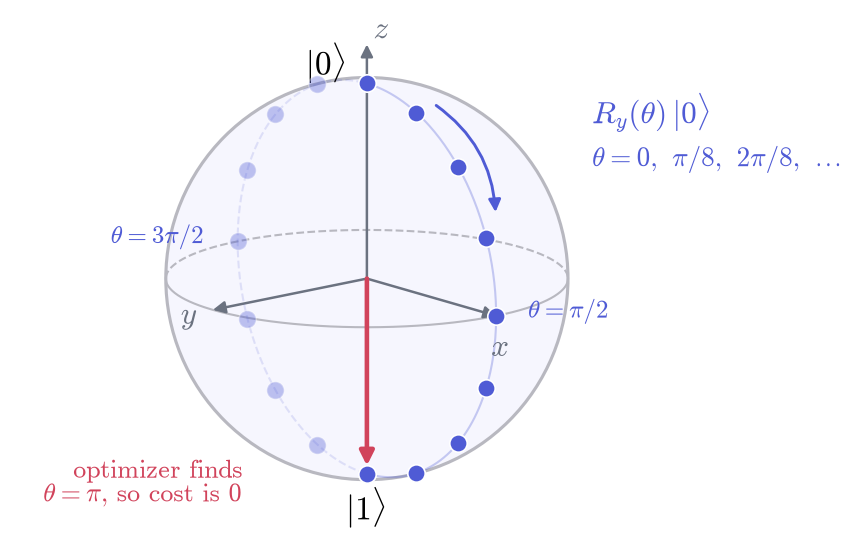
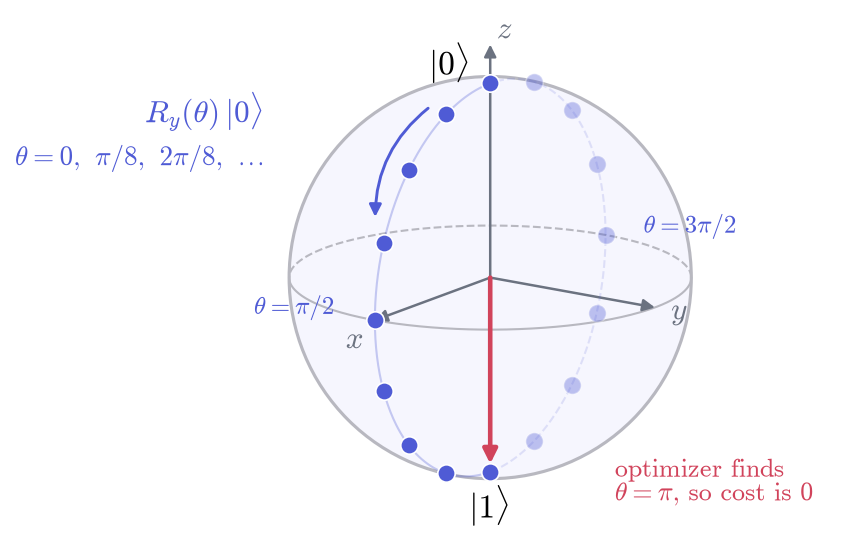
Ry figure: use the right-handed Bloch sphere view (x out of the page, y right, z up)

diff --git a/make_ry_figure.py b/make_ry_figure.py
@@ -5,6 +5,9 @@
 ### Ry(theta)|0> = cos(theta/2)|0> + sin(theta/2)|1>  ->  Bloch vector (sin theta, 0, cos theta),
 ### so Ry walks the qubit around the circle through |0>, +x, |1> and -x.
 ###
+### Axes follow the usual right-handed Bloch sphere drawing: x out of the page (lower left),
+### y to the right, z up, so that x cross y = z.
+###
 ### Run from this folder:   python make_ry_figure.py
 
 import os
@@ -24,12 +27,15 @@ RED = '#d1435b'
 GRAY = '#6b7280'
 LIGHT_GRAY = '#b8b8c0'
 
-# orthographic view from slightly above the equator, x towards the lower right, y towards the lower left
-azimuth, elevation = np.deg2rad(40), np.deg2rad(14)
+# orthographic view from slightly above the equator and a little round from the x axis,
+# so x points out of the page towards the lower left and y to the right
+azimuth, elevation = np.deg2rad(35), np.deg2rad(15)
 toward_viewer = np.array([np.cos(elevation) * np.cos(azimuth), np.cos(elevation) * np.sin(azimuth), np.sin(elevation)])
-screen_right = np.cross(toward_viewer, [0, 0, 1])
+screen_right = np.cross([0, 0, 1], toward_viewer)
 screen_right /= np.linalg.norm(screen_right)
-screen_up = np.cross(screen_right, toward_viewer)
+screen_up = np.cross(toward_viewer, screen_right)
+# (right, up, towards viewer) must be right-handed, otherwise the drawing is a mirror image
+assert np.allclose(np.cross(screen_right, screen_up), toward_viewer)
 
 
 def project(points):
@@ -41,7 +47,7 @@ def project(points):
 fig, ax = plt.subplots(figsize=(6.4, 4.6))
 ax.set_aspect('equal')
 ax.axis('off')
-ax.set_xlim(-1.75, 1.95)
+ax.set_xlim(-1.95, 1.75)
 ax.set_ylim(-1.3, 1.3)
 
 # sphere
@@ -54,7 +60,7 @@ ax.plot(np.where(ed < 0, ex, np.nan), np.where(ed < 0, ey, np.nan), color=LIGHT_
 ax.plot(np.where(ed >= 0, ex, np.nan), np.where(ed >= 0, ey, np.nan), color=LIGHT_GRAY, lw=1, zorder=1)
 
 # axes
-for direction, name, offset in [((1, 0, 0), 'x', (0.02, -0.16)), ((0, 1, 0), 'y', (-0.12, -0.03)), ((0, 0, 1.2), 'z', (0.07, 0.07))]:
+for direction, name, offset in [((1, 0, 0), 'x', (-0.1, -0.1)), ((0, 1, 0), 'y', (0.12, -0.02)), ((0, 0, 1.2), 'z', (0.07, 0.07))]:
 	sx, sy, _ = project(direction)
 	ax.annotate('', xy=(sx, sy), xytext=(0, 0), zorder=2,
 				arrowprops=dict(arrowstyle='-|>', color=GRAY, lw=1.2, mutation_scale=12, shrinkA=0, shrinkB=0))
@@ -79,7 +85,7 @@ ax.scatter(dx[front], dy[front], s=70, color=BLUE, zorder=4, edgecolor='white', 
 ax.scatter(dx[~front], dy[~front], s=70, color=BLUE, alpha=0.35, zorder=3, edgecolor='white', linewidth=0.8)
 
 # label a few of the dots with their theta
-for theta, text, (ox, oy) in [(np.pi / 2, r'$\theta=\pi/2$', (0.36, 0.02)), (3 * np.pi / 2, r'$\theta=3\pi/2$', (-0.4, 0.02))]:
+for theta, text, (ox, oy) in [(np.pi / 2, r'$\theta=\pi/2$', (-0.4, 0.06)), (3 * np.pi / 2, r'$\theta=3\pi/2$', (0.42, 0.04))]:
 	px, py, _ = project((np.sin(theta), 0, np.cos(theta)))
 	ax.text(px + ox, py + oy, text, color=BLUE, fontsize=12, ha='center', va='center')
 
@@ -87,18 +93,18 @@ for theta, text, (ox, oy) in [(np.pi / 2, r'$\theta=\pi/2$', (0.36, 0.02)), (3 *
 a0, a1 = np.pi / 8 + 0.08, 3 * np.pi / 8 - 0.08
 ax0, ay0, _ = project((1.12 * np.sin(a0), 0, 1.12 * np.cos(a0)))
 ax1, ay1, _ = project((1.12 * np.sin(a1), 0, 1.12 * np.cos(a1)))
-ax.add_patch(FancyArrowPatch((ax0, ay0), (ax1, ay1), connectionstyle='arc3,rad=-0.25', arrowstyle='-|>',
+ax.add_patch(FancyArrowPatch((ax0, ay0), (ax1, ay1), connectionstyle='arc3,rad=0.25', arrowstyle='-|>',
 							 mutation_scale=12, color=BLUE, lw=1.4, zorder=4))
 
 # callout
-ax.text(1.12, 0.72, r'$R_y(\theta)\,|0\rangle$', color=BLUE, fontsize=15, ha='left', va='bottom')
-ax.text(1.12, 0.66, r'$\theta = 0,\ \pi/8,\ 2\pi/8,\ \ldots$', color=BLUE, fontsize=13, ha='left', va='top')
+ax.text(-1.12, 0.72, r'$R_y(\theta)\,|0\rangle$', color=BLUE, fontsize=15, ha='right', va='bottom')
+ax.text(-1.12, 0.66, r'$\theta = 0,\ \pi/8,\ 2\pi/8,\ \ldots$', color=BLUE, fontsize=13, ha='right', va='top')
 
 # where the optimizer ends up: theta = pi, the state |1>, which always measures 1 (cost 0)
 ax.annotate('', xy=(sx, sy + 0.04), xytext=(0, 0), zorder=5,
 			arrowprops=dict(arrowstyle='-|>', color=RED, lw=2.2, mutation_scale=14, shrinkA=0, shrinkB=0))
-ax.text(-0.62, -1.02, 'optimizer finds\n' + r'$\theta=\pi$' + ', so cost is 0', color=RED, fontsize=12.5,
-		ha='right', va='center', **ROMAN)
+ax.text(0.62, -1.02, 'optimizer finds\n' + r'$\theta=\pi$' + ', so cost is 0', color=RED, fontsize=12.5,
+		ha='left', va='center', **ROMAN)
 
 fig.savefig(OUT, dpi=150, bbox_inches='tight', facecolor='white')
 print('wrote', OUT)
